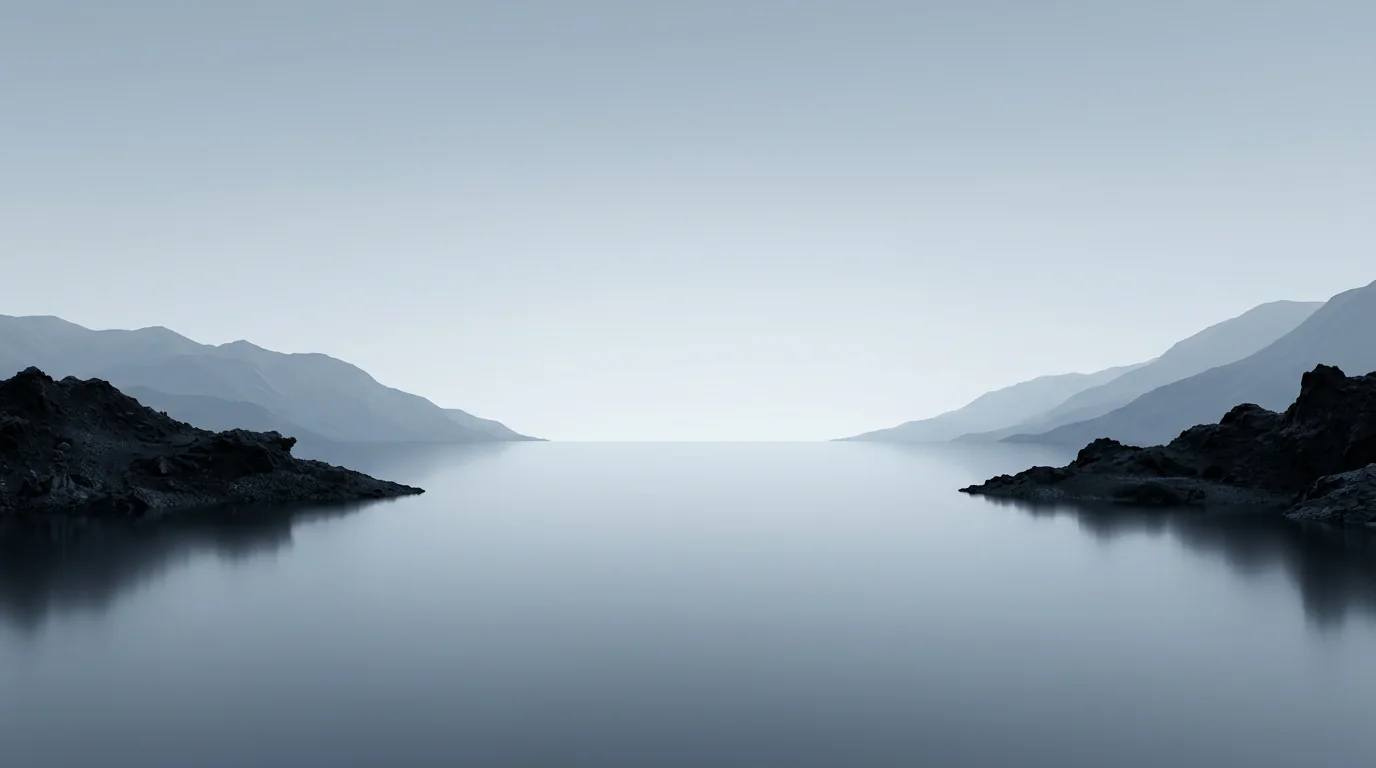
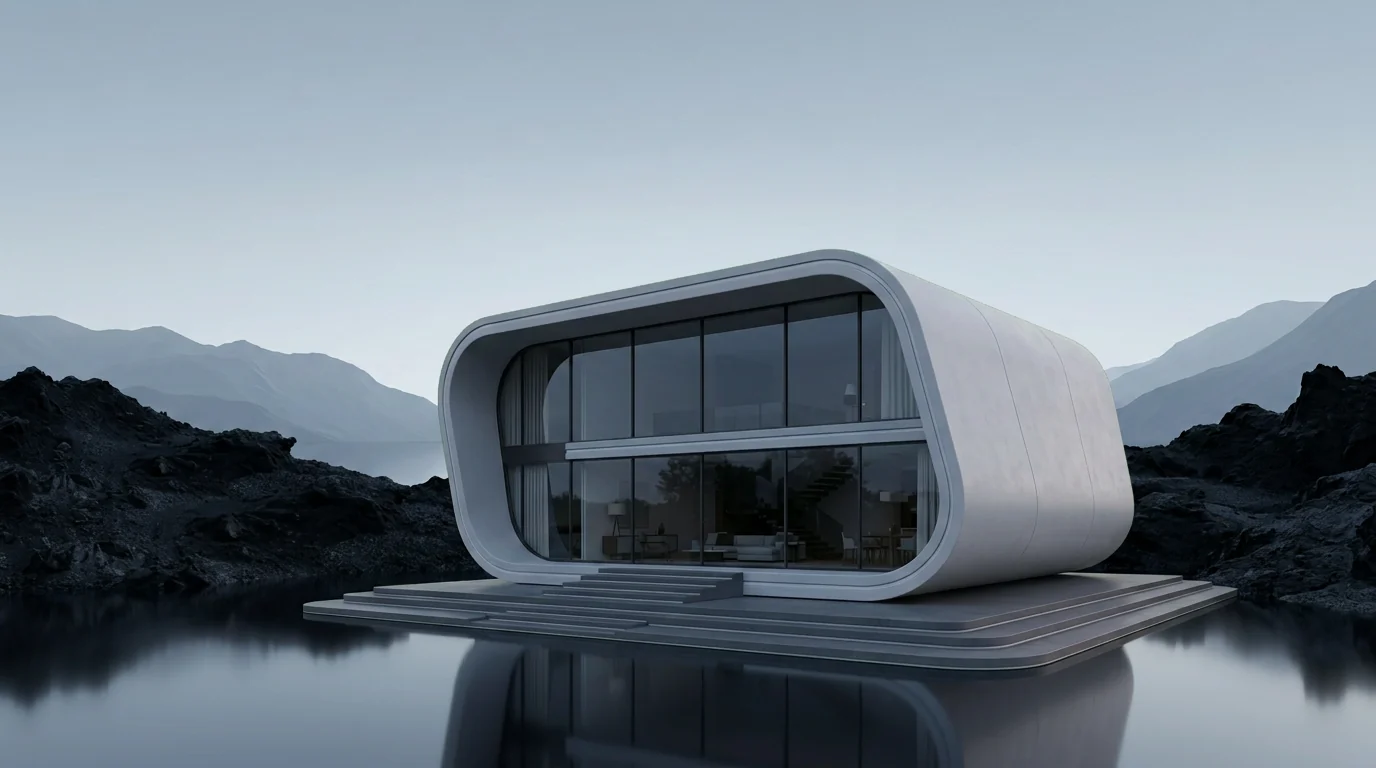
Orra: one grounded photographic scene (building on its floor with reflection and touching rocks), no pointer movement of the scene
Claude-Session: https://claude.ai/code/session_01PZg9kjiLyxntsG2SEjUj3j

diff --git a/orra/src/styles/global.css b/orra/src/styles/global.css
@@ -37,12 +37,23 @@ button { font: inherit; color: inherit; cursor: pointer; }
 }
 
 /* The artwork lives on a 16:9 stage that covers the viewport (like background-size: cover), so its parts stay in register at any shape */
-.stage { position: absolute; left: 50%; top: 50%; width: max(100cqw, calc(100cqh * 16 / 9)); aspect-ratio: 16 / 9; translate: -50% -50%; container-type: size; }
-.scene { position: absolute; inset: 0; z-index: 0; overflow: hidden; }
-.layer { position: absolute; inset: 0; will-change: transform; }
+.stage {
+  position: absolute; left: 50%; top: 50%; width: max(100cqw, calc(100cqh * 16 / 9)); aspect-ratio: 16 / 9; translate: -50% -50%; container-type: size;
+  /* Where the building stands in the picture (the picture is 1376 x 768) */
+  --hx: 22cqw; --hw: 68cqw; --hb: 12.5cqh;
+  --hh: calc(var(--hw) * 577 / 1278);
+  /* The picture is placed so the building lands in that spot: the building is 68% of the picture's width, starting 22% in, its top 32.4% down */
+  --pw: calc(var(--hw) / 0.68);
+  --ph: calc(var(--pw) * 0.5625);
+  --pt: calc(100cqh - var(--hb) - var(--hh) - var(--ph) * 0.3242);
+}
+.backdrop { position: absolute; inset: 0; }
+.fill { position: absolute; inset: 0; background: linear-gradient(to bottom, #9cafbe calc(var(--pt) + 6cqw), #515c69 calc(var(--pt) + var(--ph) - 6cqw)); }
+.fill--night { background: linear-gradient(to bottom, #041532 calc(var(--pt) + 6cqw), #0e1420 calc(var(--pt) + var(--ph) - 6cqw)); opacity: var(--night); }
 
-.plate { position: absolute; max-width: none; left: -2%; top: -2%; width: 104%; height: 104%; object-fit: cover; object-position: 50% 50%; }
-/* Night is its own picture, faded in over dusk */
+/* The two pictures (dusk with the lights off, night with them on) are the same scene, so they fade into one another */
+.plates { position: absolute; left: calc(var(--hx) - var(--pw) * 0.22); top: var(--pt); width: var(--pw); height: var(--ph); }
+.plate { position: absolute; inset: 0; width: 100%; height: 100%; max-width: none; object-fit: fill; }
 .plate--night { opacity: var(--night); }
 
 /* ---------- Giant name, behind the house, and an outline copy across its glass ---------- */
@@ -63,37 +74,21 @@ button { font: inherit; color: inherit; cursor: pointer; }
 }
 .word--solid { color: #fff; opacity: 0.96; }
 .word--line { color: transparent; -webkit-text-stroke: 1px rgb(255 255 255 / 0.55); }
-.l { display: inline-block; will-change: transform; }
-
-/* ---------- House ----------
-   Dusk: the lights are off (house_off). Night: the lit picture fades in over it, the strips and windows bloom,
-   and the ground around the platform picks up their orange light. One variable, --night, drives all of it. */
-.home { pointer-events: none; }
-.house { position: absolute; left: 22cqw; bottom: 12.5cqh; width: 68cqw; aspect-ratio: 1278 / 577; }
-.house img { position: absolute; inset: 0; width: 100%; height: 100%; }
-.house .on { opacity: var(--night); }
-
-/* The glossy floor mirrors the house: flipped, faded, and tucked up under the platform so there is no gap */
-.reflect { position: absolute; left: 22cqw; top: calc(100cqh - 12.5cqh - 3.4cqw); width: 68cqw; aspect-ratio: 1278 / 577; transform: scaleY(-1); opacity: 0.5; -webkit-mask-image: linear-gradient(to top, #000 8%, transparent 52%); mask-image: linear-gradient(to top, #000 8%, transparent 52%); filter: blur(1.4px); pointer-events: none; }
-.reflect img { position: absolute; inset: 0; width: 100%; height: 100%; }
-.reflect .on { opacity: var(--night); }
-
-/* The platform's shadow on the ground: a soft wide one, and a tight dark one right at its edge */
-.cast { position: absolute; inset: 0; background: #06080b; -webkit-mask-image: var(--house), linear-gradient(to bottom, transparent 66%, #000 84%); mask-image: var(--house), linear-gradient(to bottom, transparent 66%, #000 84%); -webkit-mask-composite: source-in; mask-composite: intersect; -webkit-mask-size: 100% 100%, 100% 100%; mask-size: 100% 100%, 100% 100%; transform-origin: 50% 100%; pointer-events: none; }
-.cast--wide { filter: blur(1.3cqw); transform: translateY(1.6cqh) scale(1.035, 1.08); opacity: 0.55; }
-.cast--tight { filter: blur(0.3cqw); transform: translateY(0.55cqh); opacity: 0.6; }
-
-/* Orange light spilling onto the stone at night */
-.glow { position: absolute; left: -2%; right: -2%; bottom: -14%; height: 46%; background: radial-gradient(ellipse 50% 50% at 50% 45%, rgb(255 140 60 / 0.6), rgb(255 140 60 / 0.18) 55%, rgb(255 140 60 / 0) 100%); mix-blend-mode: screen; opacity: calc(var(--night) * 0.9); pointer-events: none; }
-
-.neon { position: absolute; inset: 0; -webkit-mask-image: var(--neon); mask-image: var(--neon); -webkit-mask-size: 100% 100%; mask-size: 100% 100%; mix-blend-mode: screen; pointer-events: none; }
-/* Bloom around the strips and lit windows: off at dusk, full at night */
-.neon--base { background: #ff9d52; filter: blur(0.7cqw); opacity: calc(var(--night) * 0.8); }
-
-/* Low mist that drifts across the foot of the building, hiding the seam between platform and ground */
-.mist { position: absolute; left: -20%; width: 140%; bottom: 3cqh; height: 26cqh; background: radial-gradient(ellipse 40% 50% at 30% 60%, rgb(215 224 230 / 0.34), transparent 70%), radial-gradient(ellipse 34% 44% at 72% 50%, rgb(215 224 230 / 0.28), transparent 70%); filter: blur(1.4cqw); opacity: calc(1 - var(--night) * 0.55); pointer-events: none; animation: mist-drift 46s ease-in-out infinite alternate; }
-.mist--b { bottom: -1cqh; height: 20cqh; opacity: calc(0.8 - var(--night) * 0.5); animation-duration: 62s; animation-direction: alternate-reverse; }
-@keyframes mist-drift { from { transform: translateX(-4cqw); } to { transform: translateX(4cqw); } }
+.l { display: inline-block; }
+.letters { position: absolute; inset: 0; pointer-events: none; }
+/* The solid name sits behind the building: it is cut out wherever the building is */
+.letters:not(.letters--front) {
+  -webkit-mask-image: linear-gradient(#000, #000), var(--house);
+  mask-image: linear-gradient(#000, #000), var(--house);
+  -webkit-mask-size: 100% 100%, var(--hw) var(--hh);
+  mask-size: 100% 100%, var(--hw) var(--hh);
+  -webkit-mask-position: 0 0, var(--hx) calc(100cqh - var(--hb) - var(--hh));
+  mask-position: 0 0, var(--hx) calc(100cqh - var(--hb) - var(--hh));
+  -webkit-mask-repeat: no-repeat;
+  mask-repeat: no-repeat;
+  -webkit-mask-composite: xor;
+  mask-composite: exclude;
+}
 
 /* ---------- Interface ---------- */
 .top { position: absolute; z-index: 5; left: 0; right: 0; top: 0; display: flex; align-items: center; justify-content: space-between; padding: 4.2cqh 3.4cqw 0; }
@@ -143,7 +138,7 @@ button { font: inherit; color: inherit; cursor: pointer; }
 html[data-mode='night'] .stat, html[data-mode='night'] .mode { background: rgb(8 14 22 / 0.38); }
 
 /* ---------- Intro (only with scripting): everything starts soft, then settles ---------- */
-html.js .layer:not(.letters), html.js .l, html.js .top, html.js .left, html.js .headline, html.js .stat, html.js .cta, html.js .thumbs { opacity: 0; }
+html.js .backdrop, html.js .l, html.js .top, html.js .left, html.js .headline, html.js .stat, html.js .cta, html.js .thumbs { opacity: 0; }
 
 /* ---------- Phones and tall screens ---------- */
 @media (max-width: 760px), (max-aspect-ratio: 5 / 6) {
@@ -151,9 +146,9 @@ html.js .layer:not(.letters), html.js .l, html.js .top, html.js .left, html.js .
   .stage { left: 0; top: 0; width: 100%; height: 100%; aspect-ratio: auto; translate: none; }
   /* The art is sized by the card's width, so it is placed from the card's vertical centre, whatever the height */
   .word { font-size: 34cqw; top: calc(50cqh - 54cqw); }
-  .house { left: -12cqw; width: 126cqw; bottom: calc(50cqh - 15cqw); }
-  .reflect { left: -12cqw; width: 126cqw; top: calc(50cqh + 15cqw - 6.3cqw); }
-  .plate { object-position: 50% 50%; }
+  .stage { --hx: -12cqw; --hw: 126cqw; --hb: calc(50cqh - 15cqw); }
+  /* The picture is shorter than the screen here, so its top and bottom melt into a matching flat colour */
+  .plates { -webkit-mask-image: linear-gradient(to bottom, transparent 0, #000 7cqw, #000 calc(var(--ph) - 7cqw), transparent 100%); mask-image: linear-gradient(to bottom, transparent 0, #000 7cqw, #000 calc(var(--ph) - 7cqw), transparent 100%); }
   .top { padding: 2.6cqh 5cqw 0; }
   .menu-btn { display: inline-flex; padding: 0.5rem 1.15rem; border: 1px solid rgb(255 255 255 / 0.75); border-radius: 99px; background: rgb(255 255 255 / 0.12); backdrop-filter: blur(10px); -webkit-backdrop-filter: blur(10px); font-size: 0.82rem; }
   .nav { position: absolute; right: 5cqw; top: 100%; margin-top: 0.4rem; flex-direction: column; gap: 0.3rem; padding: 0.6rem; border-radius: 18px; background: rgb(10 18 26 / 0.62); backdrop-filter: blur(16px); -webkit-backdrop-filter: blur(16px); opacity: 0; pointer-events: none; transform: translateY(-6px); transition: opacity 0.3s, transform 0.3s; }

diff --git a/orra/src/scripts/main.ts b/orra/src/scripts/main.ts
@@ -8,89 +8,7 @@ const root = document.documentElement;
 const reduce = window.matchMedia('(prefers-reduced-motion: reduce)').matches;
 const fine = window.matchMedia('(hover: hover) and (pointer: fine)').matches;
 
-const card = q('[data-card]')!;
-const scene = q('[data-scene]')!;
-
-/** Pointer position over the card, -0.5 to 0.5 on each axis (drifts by itself when nobody is moving the pointer) */
-const pointer = { x: 0, y: 0, px: 0, py: 0, inside: false, last: performance.now() };
-
-/* ---------- Depth: each layer slides a little with the pointer, the letters the opposite way ---------- */
-const layers = qa('[data-depth]', scene).map((el) => ({
-  el,
-  depth: parseFloat(el.dataset.depth || '0'),
-  x: gsap.quickTo(el, 'x', { duration: 1.1, ease: 'power3.out' }),
-  y: gsap.quickTo(el, 'y', { duration: 1.1, ease: 'power3.out' }),
-}));
-
-const letterEls = [0, 1, 2, 3].map((i) => qa(`.l[data-i="${i}"]`, scene));
-const letters = letterEls.map((els) => ({
-  els,
-  y: els.map((e) => gsap.quickTo(e, 'y', { duration: 0.7, ease: 'power3.out' })),
-  s: els.map((e) => gsap.quickTo(e, 'scale', { duration: 0.7, ease: 'power3.out' })),
-}));
-let letterBox: { c: number; w: number }[] = [];
-const measureLetters = () => {
-  const r = card.getBoundingClientRect();
-  letterBox = letterEls.map((els) => {
-    const b = els[0].getBoundingClientRect();
-    return { c: (b.left + b.width / 2 - r.left) / r.width - 0.5, w: b.width / r.width };
-  });
-};
-
-const floaters = qa('.stat', card).map((el) => ({
-  el,
-  x: gsap.quickTo(el, 'x', { duration: 1.1, ease: 'power3.out' }),
-  y: gsap.quickTo(el, 'y', { duration: 1.1, ease: 'power3.out' }),
-}));
-
-function applyDepth() {
-  const w = card.clientWidth;
-  layers.forEach((l) => {
-    l.x(-pointer.x * l.depth * w * 2);
-    l.y(-pointer.y * l.depth * w * 2);
-  });
-  floaters.forEach((f, i) => {
-    f.x(pointer.x * w * (0.012 + i * 0.006));
-    f.y(pointer.y * w * (0.01 + i * 0.005));
-  });
-  // The letter under the pointer lifts, its neighbours follow a little
-  letters.forEach((l, i) => {
-    const b = letterBox[i];
-    const near = pointer.inside && b ? Math.max(0, 1 - Math.abs(pointer.x - b.c) / (b.w * 1.15)) ** 2 : 0;
-    l.y.forEach((fn) => fn(-near * card.clientHeight * 0.022));
-    l.s.forEach((fn) => fn(1 + near * 0.025));
-  });
-}
-
-/* ---------- Pointer input (mouse, pen or a finger dragging) ---------- */
-let rect = card.getBoundingClientRect();
-const measure = () => { rect = card.getBoundingClientRect(); measureLetters(); moveNav(); };
-
-function onMove(e: PointerEvent) {
-  const nx = (e.clientX - rect.left) / rect.width;
-  const ny = (e.clientY - rect.top) / rect.height;
-  pointer.inside = nx >= 0 && nx <= 1 && ny >= 0 && ny <= 1;
-  pointer.x = Math.max(-0.5, Math.min(0.5, nx - 0.5));
-  pointer.y = Math.max(-0.5, Math.min(0.5, ny - 0.5));
-  pointer.last = performance.now();
-  if (reduce) return;
-  applyDepth();
-}
-window.addEventListener('pointermove', onMove, { passive: true });
-card.addEventListener('pointerleave', () => { pointer.inside = false; applyDepth(); });
-
-/* With nobody at the controls the scene drifts slowly, so it never looks frozen */
-if (!reduce) {
-  gsap.ticker.add((time) => {
-    if (performance.now() - pointer.last < 2800) return;
-    pointer.x = Math.sin(time * 0.32) * 0.14;
-    pointer.y = Math.cos(time * 0.24) * 0.08;
-    pointer.inside = false;
-    applyDepth();
-  });
-}
-
-/* ---------- Time of day ---------- */
+/* ---------- Time of day: one variable, --night, takes the picture from dusk (lights off) to night (lights on) ---------- */
 const modeBtns = qa<HTMLButtonElement>('[data-mode]');
 function setMode(mode: 'dusk' | 'night') {
   root.dataset.mode = mode;
@@ -107,13 +25,13 @@ modeBtns.forEach((b) => b.addEventListener('click', () => setMode(b.dataset.mode
 const nav = q('[data-nav]')!;
 const pill = q('[data-pill]')!;
 const links = qa<HTMLAnchorElement>('.nav__link', nav);
+const menuBtn = q('[data-menu]');
 let active = links.find((l) => l.classList.contains('is-active')) || links[0];
 function movePill(to: HTMLElement) {
   pill.style.width = `${to.offsetWidth}px`;
   pill.style.transform = `translateX(${to.offsetLeft}px)`;
   links.forEach((l) => l.classList.toggle('is-under', l === to));
 }
-function moveNav() { movePill(active); }
 links.forEach((l) => {
   l.addEventListener('mouseenter', () => movePill(l));
   l.addEventListener('focus', () => movePill(l));
@@ -129,7 +47,6 @@ links.forEach((l) => {
   });
 });
 nav.addEventListener('mouseleave', () => movePill(active));
-const menuBtn = q('[data-menu]');
 menuBtn?.addEventListener('click', () => {
   const open = nav.classList.toggle('is-open');
   menuBtn.setAttribute('aria-expanded', String(open));
@@ -137,6 +54,8 @@ menuBtn?.addEventListener('click', () => {
 document.addEventListener('keydown', (e) => {
   if (e.key === 'Escape') { nav.classList.remove('is-open'); menuBtn?.setAttribute('aria-expanded', 'false'); }
 });
+window.addEventListener('resize', () => movePill(active));
+document.fonts?.ready.then(() => movePill(active));
 
 /* ---------- Glass cards tilt, and the button leans toward the pointer ---------- */
 if (fine && !reduce) {
@@ -166,44 +85,35 @@ if (fine && !reduce) {
   }
 }
 
-/* ---------- Intro: the scene settles out of a soft blur, then the interface follows ---------- */
-const counters = qa('[data-count]');
+/* ---------- Intro: the scene settles out of a soft blur, the name rises letter by letter, then the interface follows ---------- */
 function intro() {
   const tl = gsap.timeline({ defaults: { ease: 'power2.out' } });
   const blurIn = (t: gsap.TweenTarget, blur: number, from: gsap.TweenVars, to: gsap.TweenVars, at: number) =>
     tl.fromTo(t, { opacity: 0, filter: `blur(${blur}px)`, ...from }, { opacity: 1, filter: 'blur(0px)', clearProps: 'filter', ...to }, at);
 
-  blurIn(qa('.layer', scene)[0], 18, { scale: 1.1 }, { scale: 1, duration: 3 }, 0);
-  letters.forEach((l, i) => l.els.forEach((el) => {
-    tl.fromTo(el, { opacity: 0, yPercent: 16, filter: 'blur(22px)' }, { opacity: 1, yPercent: 0, filter: 'blur(0px)', clearProps: 'filter', duration: 2.1 }, 0.5 + i * 0.14);
-  }));
-  const home = q('.home', scene)!;
-  blurIn(home, 14, { scale: 0.96, transformOrigin: '50% 100%' }, { scale: 1, duration: 2.6 }, 1.0);
-  const ui = qa('[data-ui]');
-  ui.forEach((el, i) => blurIn(el, 9, { y: 16 }, { y: 0, duration: 1.5 }, 1.9 + i * 0.12));
-  counters.forEach((c) => {
+  blurIn(q('[data-backdrop]')!, 18, { scale: 1.06 }, { scale: 1, duration: 3 }, 0);
+  qa('.letters:not(.letters--front) .l').forEach((el, i) => {
+    tl.fromTo(el, { opacity: 0, yPercent: 16, filter: 'blur(22px)' }, { opacity: 1, yPercent: 0, filter: 'blur(0px)', clearProps: 'filter', duration: 2.1 }, 0.6 + i * 0.14);
+  });
+  qa('.letters--front .l').forEach((el, i) => {
+    tl.fromTo(el, { opacity: 0, yPercent: 16 }, { opacity: 1, yPercent: 0, duration: 2.1 }, 0.6 + i * 0.14);
+  });
+  qa('[data-ui]').forEach((el, i) => blurIn(el, 9, { y: 16 }, { y: 0, duration: 1.5 }, 1.7 + i * 0.12));
+  qa('[data-count]').forEach((c) => {
     const target = parseInt(c.dataset.count || '0', 10);
     const o = { v: 0 };
     c.textContent = '0';
-    tl.to(o, { v: target, duration: 2.2, ease: 'power2.out', onUpdate: () => { c.textContent = String(Math.round(o.v)); } }, 2.4);
+    tl.to(o, { v: target, duration: 2.2, ease: 'power2.out', onUpdate: () => { c.textContent = String(Math.round(o.v)); } }, 2.2);
   });
-  return tl;
 }
 
 /* ---------- Start ---------- */
-measure();
-window.addEventListener('resize', measure);
-document.fonts?.ready.then(measure);
 setMode('dusk');
 gsap.set(root, { '--night': 0 });
+movePill(active);
 
-if (reduce) {
-  moveNav();
-} else {
-  const imgs = qa<HTMLImageElement>('img', scene);
+if (!reduce) {
+  const imgs = qa<HTMLImageElement>('.plate');
   const ready = Promise.all(imgs.map((i) => (i.decode ? i.decode().catch(() => undefined) : Promise.resolve())));
-  Promise.race([ready, new Promise((r) => window.setTimeout(r, 2500))]).then(() => {
-    measure();
-    intro();
-  });
+  Promise.race([ready, new Promise((r) => window.setTimeout(r, 2500))]).then(intro);
 }

diff --git a/orra/README.md b/orra/README.md
@@ -1,34 +1,35 @@
 # Orra
 
-A concept hero for a fictional architectural-residence studio, built with Astro and GSAP. It is inspired by the look of a luxury real-estate landing page (a framed card, a giant name sitting behind a glass house, glass stat cards, a pill nav), with its own name, copy, imagery and code.
+A concept hero for a fictional architectural-residence studio, built with Astro and GSAP. It is inspired by the look of a luxury real-estate landing page (a giant name sitting behind a glass house, glass stat cards, a pill nav), with its own name, copy, imagery and code.
 
 Run it: `npm install`, then `npm run dev`. `npm run build` writes `dist/`. `node scripts/stage.mjs` builds for the shared demo deploy under `/orra` and copies the result to `../site/orra` (see the repo's `wrangler.jsonc`).
 
 ## How the scene is built
 
-Generated images (Gemini 3.1 Flash Image through OpenRouter) and derived ones, all in `public/img/`:
+The hero fills the viewport. The scene is two photographs of the same place, generated with Gemini 3.1 Flash Image through OpenRouter, in `public/img/`:
 
-- `plate.webp` and `plate_night.webp`: the backdrop at dusk and at night: hazy sky, layered mountains, dark volcanic rocks framing both sides, and a glossy floor of still water. It was generated from the reference design's environment (house, letters and interface removed), and the night one is an edit of the dusk one, so the two line up exactly.
-- `house.webp` and `house_off.webp`: the villa with its lights on and with every light off (an edit of the first; the two silhouettes match to 99.8%). Both were shot on flat green and keyed out to true alpha (green dominance becomes transparency, spill clamped), so they can sit between the layers.
-- `neon.webp`: only the light strips and lit windows of the house, pulled out by brightness and colour. It is used as a mask to make them glow.
+- `plate.webp`: **dusk, lights off.** A modern villa standing on its stepped platform in still water, with dark volcanic rocks reaching in to touch both ends of the platform, a mirror-sharp reflection of the building directly under it, hazy mountains and sky. It was made by pasting a cut-out of the villa onto a generated landscape (which was itself generated from the reference design's environment) and asking the model to refine that into one photograph: contact, reflection and light were painted in, the building and its position were kept.
+- `plate_night.webp`: **night, lights on.** An edit of the dusk picture with everything held in place, the sky dark with stars, the neon strips and windows lit, and their light mirrored in the water.
+- `house.webp`: the villa's silhouette (true alpha). Not shown; it is used only as a mask, so the giant name can sit behind the building (see below).
 - `t1-4.webp`: crops of a 2x2 sheet of residences, used as the round thumbnails.
 
-The hero fills the viewport. The artwork sits on a 16:9 "stage" that covers the viewport like `background-size: cover` (cropped at the edges, centred), so the plate, name, house and water stay in register at any shape; the text and cards are positioned on the viewport itself. Both are sized in container units (`cqw`/`cqh`). On phones and tall screens the stage is the whole viewport, the art is sized by width and placed from the vertical centre, and the text blocks stack around it.
+Because both pictures show the same scene, **Dusk / Night** is one variable (`--night`, 0 to 1, eased over 1.8 s) that fades the night picture over the dusk one. The picture is placed on a 16:9 "stage" that covers the viewport like `background-size: cover`, so everything stays in register at any shape; the text and cards are positioned on the viewport itself. Both are sized in container units (`cqw`/`cqh`).
 
-Layers, back to front: dusk plate and night plate, the name (solid), the house with its shadow, its reflection in the glossy floor and a light that spills onto the floor at night, slow drifting mist, an outline copy of the name (so the letters show through the glass), then the interface.
+**The name behind the building**: the solid ORRA is cut out wherever the building is (a CSS mask built from `house.webp`, positioned from the same three variables that place the picture), so the letters really sit behind it. A thin outline copy of the name is drawn over it, so the letters show faintly through the glass.
+
+**Phones and tall screens**: the stage is the whole viewport, and the picture is scaled so the building is wider than the screen (about 126% of its width) and placed from the vertical centre. The picture is then shorter than the screen, so its top and bottom edges melt into flat colours sampled from the picture (one set for dusk, one for night). The text blocks stack below.
 
 ## Interaction
 
-- **Depth**: the plate, name, house and glass cards slide a little with the pointer, the name the opposite way. With nobody at the controls the scene drifts slowly. A finger dragging does the same on touch.
-- **Letters**: the letter under the pointer lifts and swells; its neighbours follow a little.
-- **Dusk and night are two states of the building and the backdrop.** Dusk: lights off (`house_off`), dusk sky. Night: the lit house fades in over the unlit one, a halo blooms around the strips and windows (`neon.webp` as a mask), the night sky fades in over the dusk one, and the reflection and a spill of orange light on the floor follow. One variable, `--night`, from 0 to 1, drives all of it.
-- **Dusk / Night**: a pill switch eases `--night` from 0 to 1 over 1.8 s (see above).
+- **Dusk / Night** switch, as above.
 - **Nav**: a white pill glides to whichever link you hover and returns to the current page. On phones a Menu button opens a small panel.
 - **Glass cards**: tilt in 3D under the pointer and count up on load. The Book a viewing button leans toward the pointer.
-- **Intro** (only with scripting and without reduced motion): the scene settles out of a soft blur, the name rises letter by letter, the house comes up out of the water, then the interface follows. A 6 s safety timeout restores the page if the script never starts; reduced motion skips the intro and the drift.
+- **Intro** (only with scripting and without reduced motion): the scene settles out of a soft blur, the name rises letter by letter, then the interface follows. A 6 s safety timeout restores the page if the script never starts; reduced motion skips the intro.
+
+There is no movement of the scene itself with the pointer: the picture stays still so the building reads as part of its place.
 
 ## Files
 
 - `src/components/Hero.astro`: the markup.
 - `src/styles/global.css`: layout, look and the phone rules.
-- `src/scripts/main.ts`: all of the behaviour above.
+- `src/scripts/main.ts`: the behaviour above.
